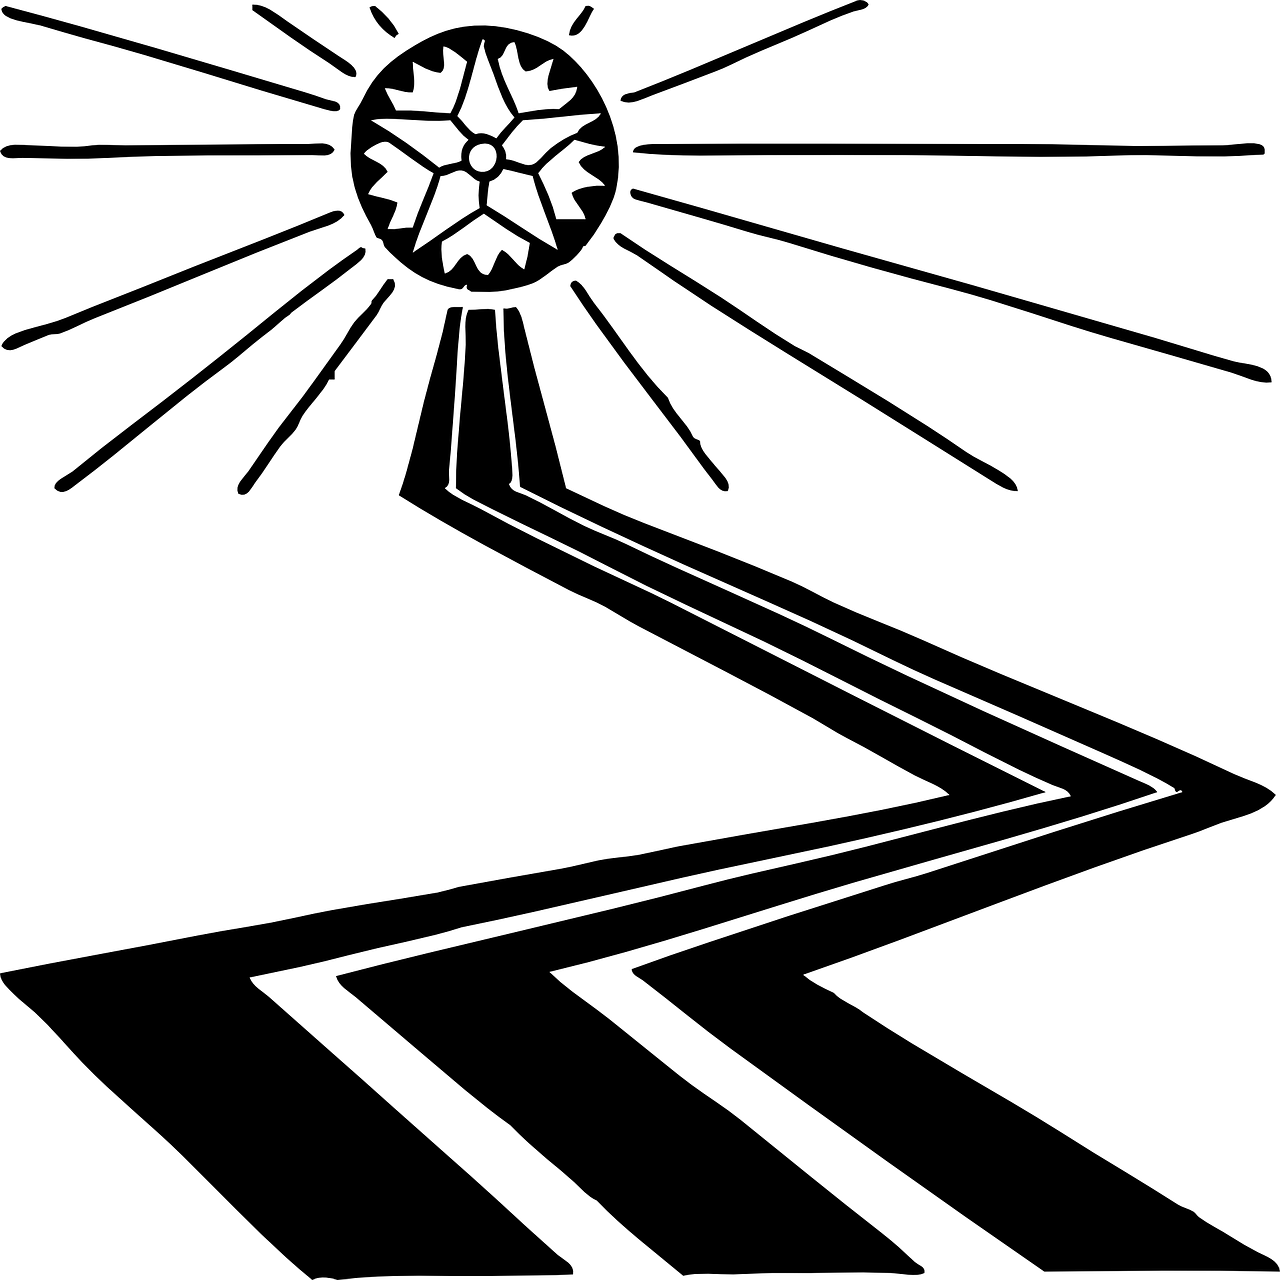
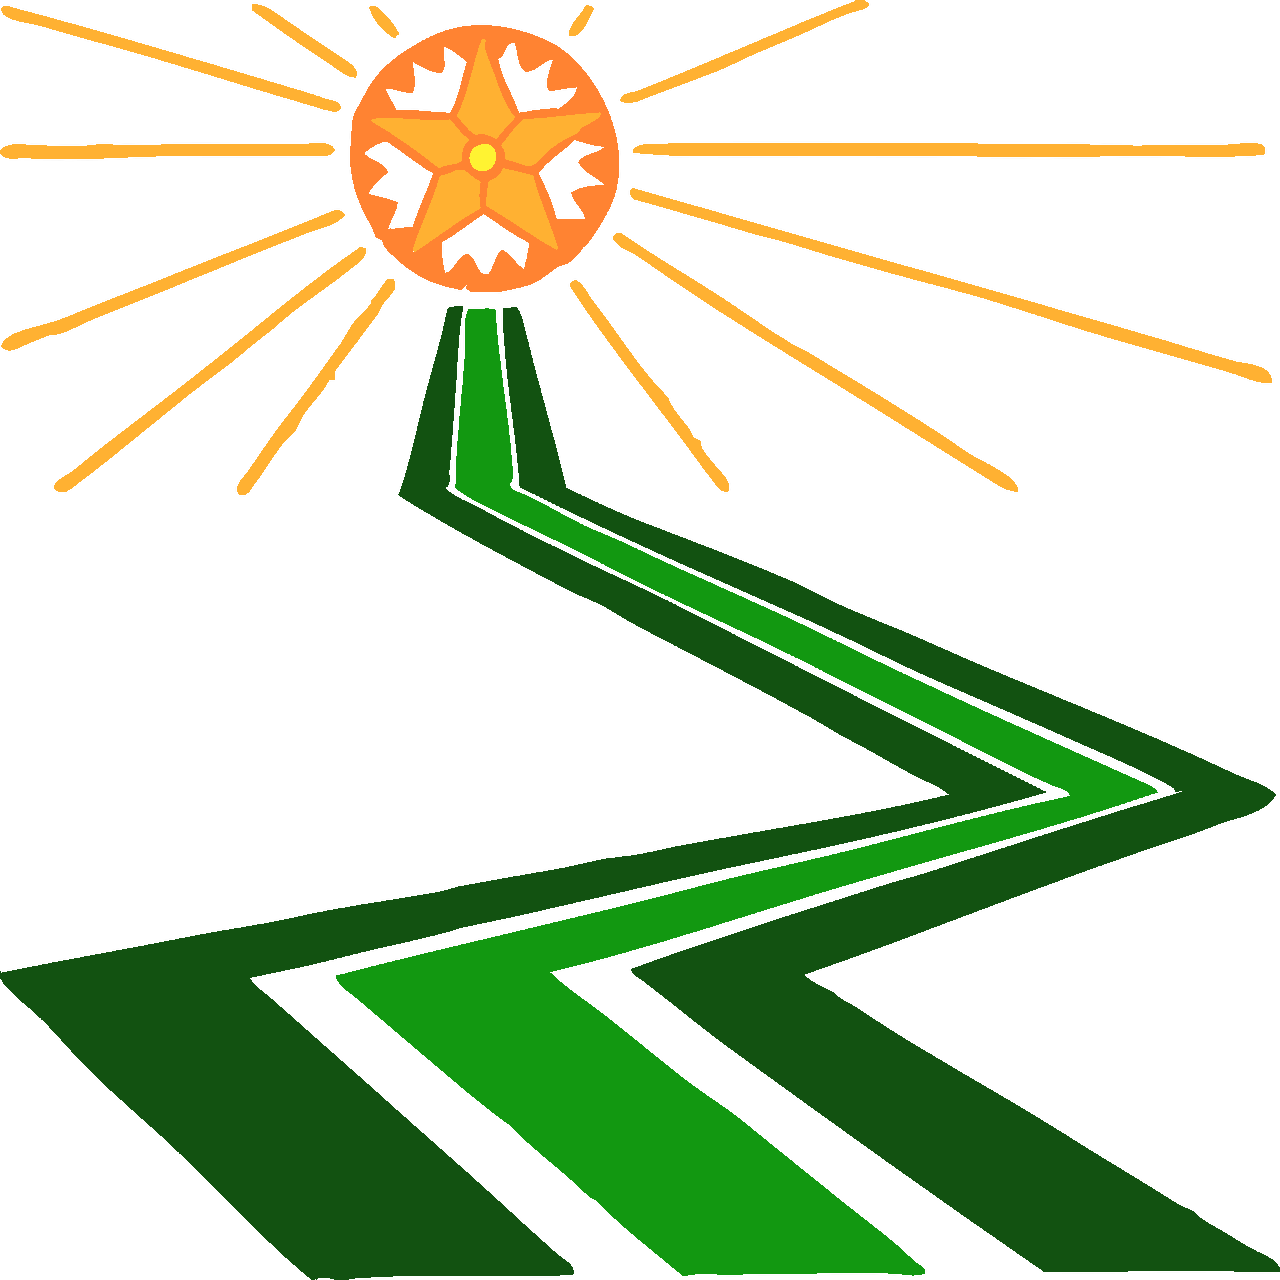
'Caminho da Luz': colorize the associated image

diff --git a/content/songs_portuguese.tex b/content/songs_portuguese.tex
@@ -2597,7 +2597,8 @@
     \lrep Os an|\[C]jinhos do \[Dm]Céu chegam |\[G]para brin\[Am]car \rrep
   \endchorus
   % Original image downloaded from: https://pixabay.com/vectors/road-path-black-and-white-sun-35435/
-  % Image license: Public Domain
+  % Image license: Public Domain,
+  % Colored by: larva
   \imagecc[3]{path_to_light_transparent_bg_PD_1280px.png}%
   \begin{translation}
     The Path of Light is in you
